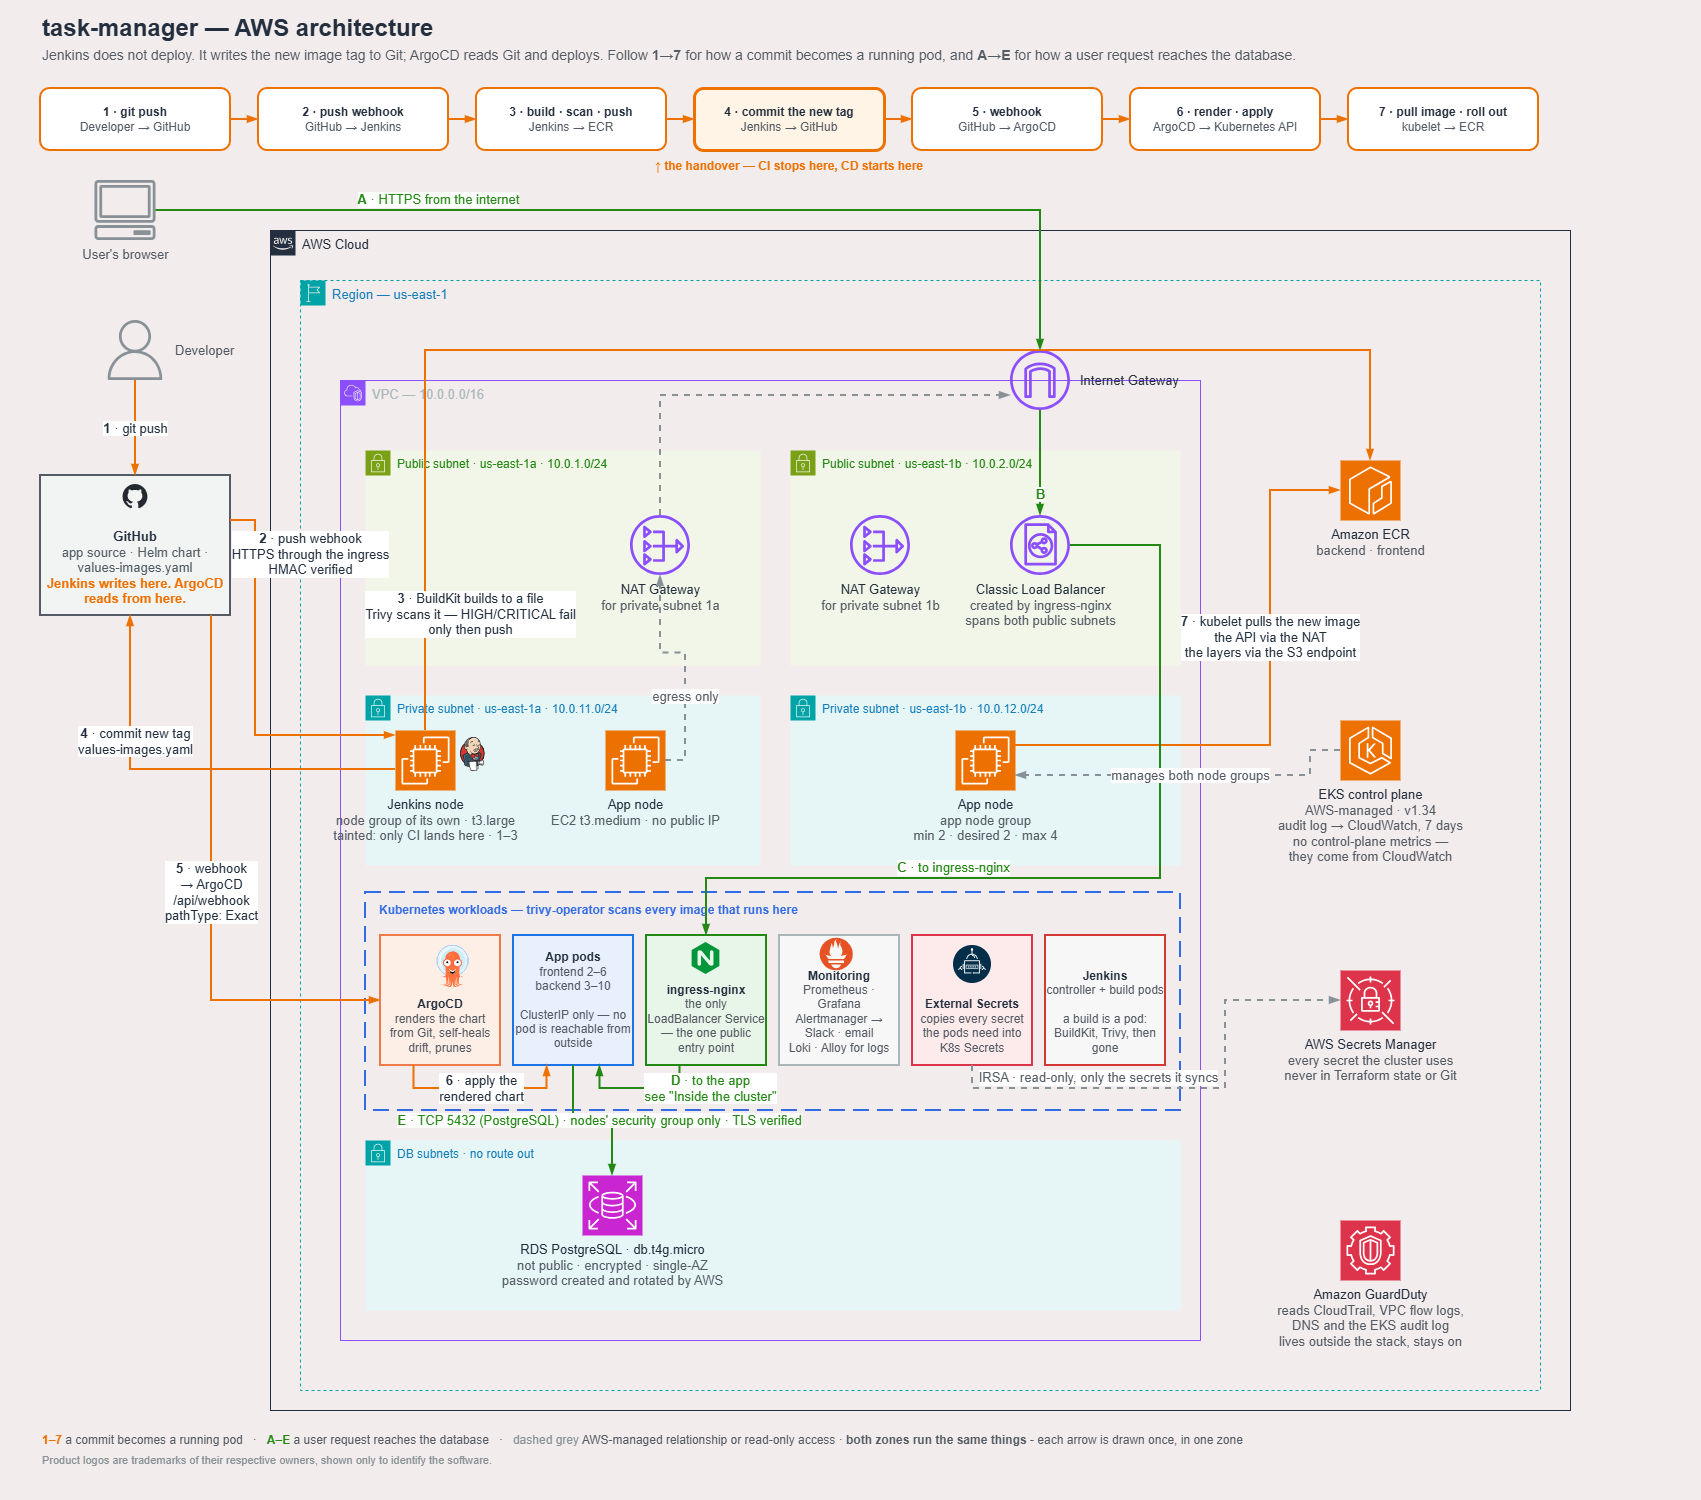
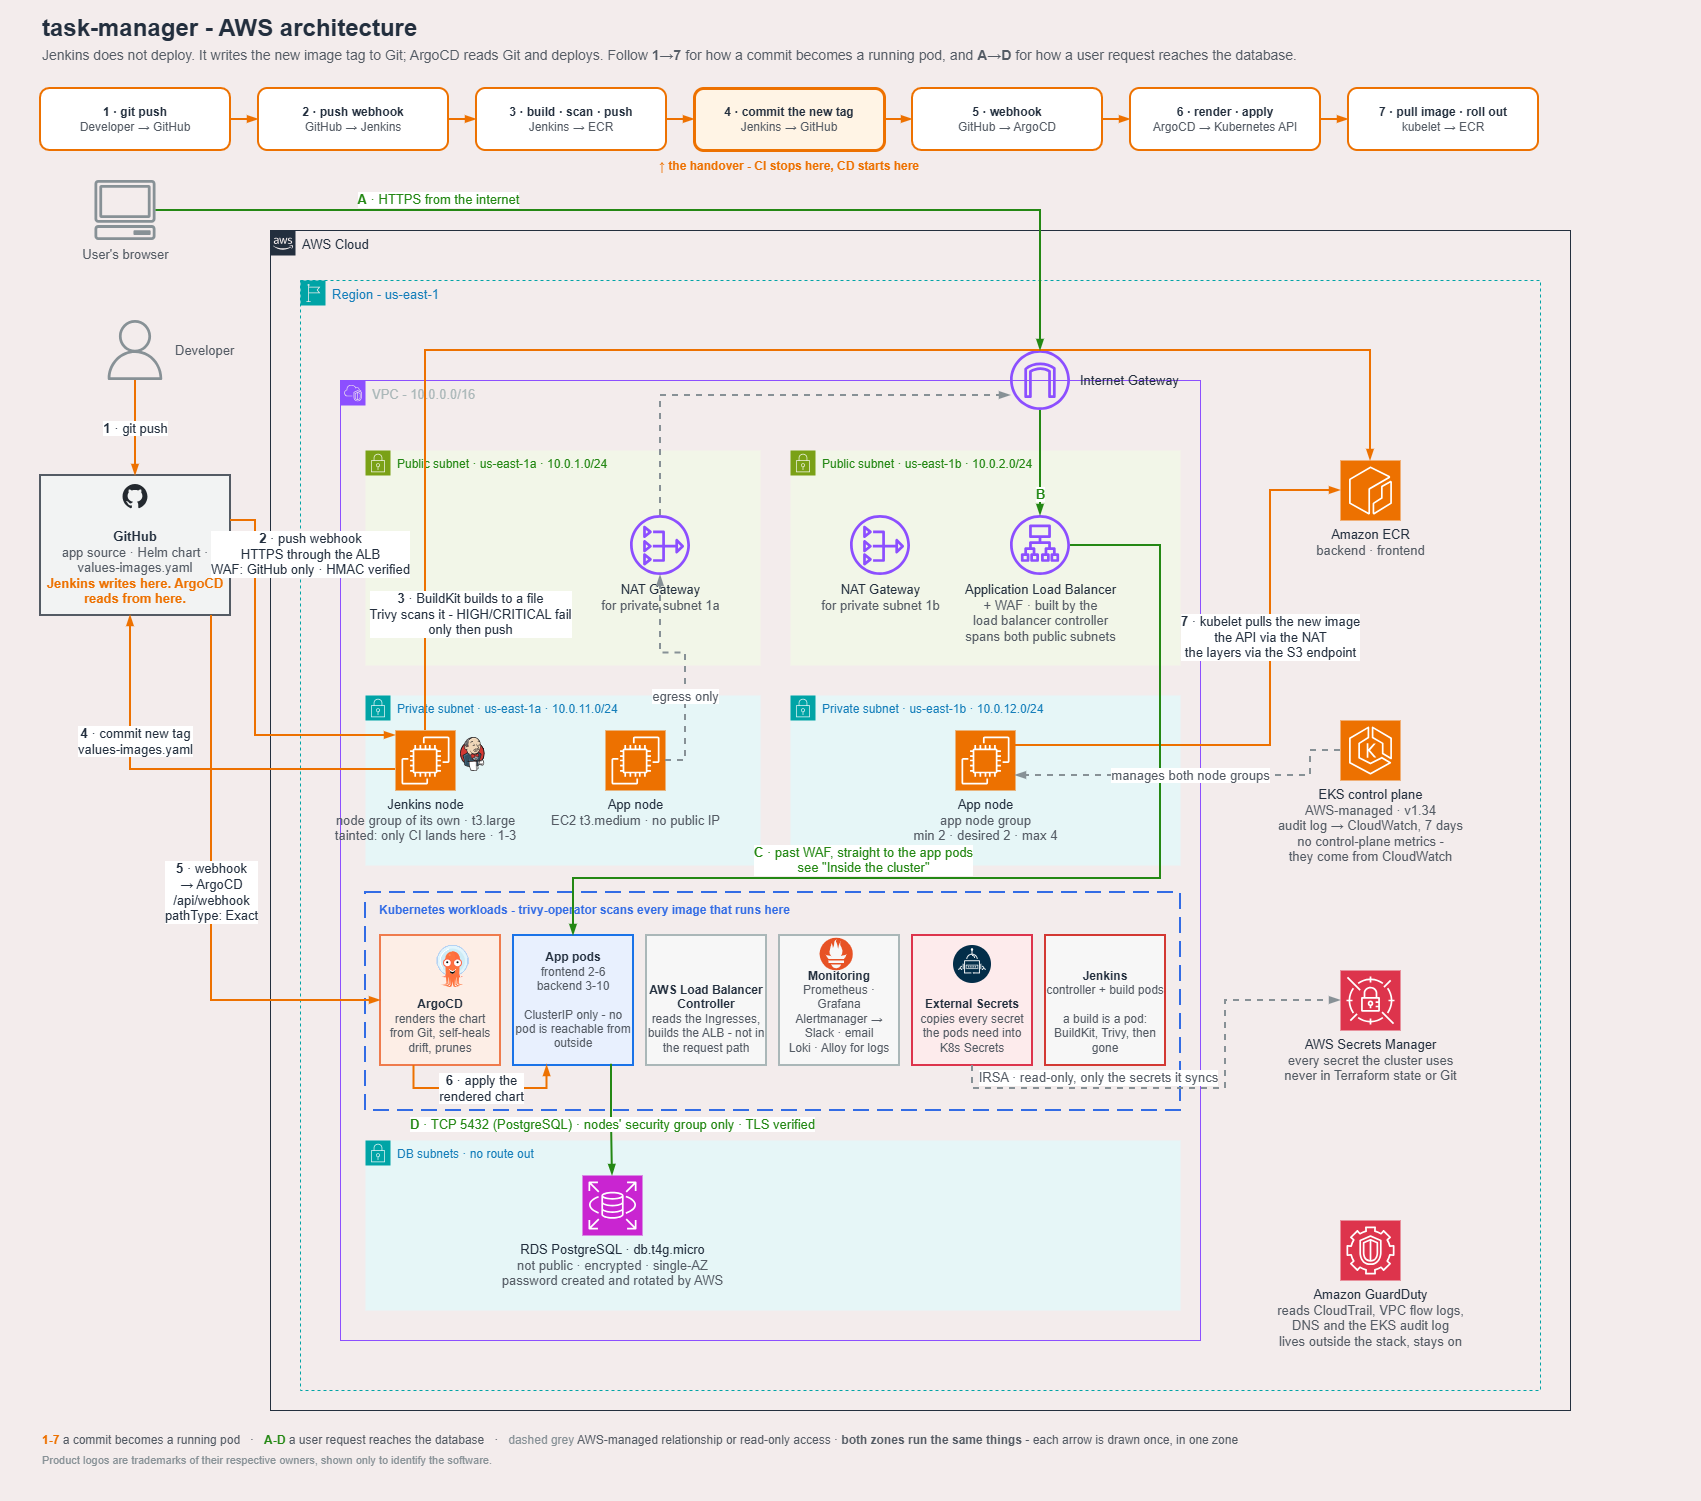
Redraw the diagrams for the ALB and WAF

diff --git a/HLD.md b/HLD.md
@@ -10,7 +10,7 @@ That split is why a compromised build can't reach production, and why `git rever
 
 ## Architecture
 
-![task-manager AWS architecture: a commit becoming a running pod (1-7), and a user request reaching the database (A-E)](docs/architecture.png)
+![task-manager AWS architecture: a commit becoming a running pod (1-7), and a user request reaching the database (A-D)](docs/architecture.png)
 
 The same system by what each piece does, rather than by where a request goes: the two node groups and what runs in each namespace, what watches them, and which AWS service each one reaches.
 
@@ -29,7 +29,7 @@ Two node groups, all of it in private subnets with no public IP:
 
 The nodes need internet access to pull images. That goes out through a NAT gateway in their own availability zone - one per zone, each private subnet with a route table of its own - so a zone going down does not cut the other zone's way out. ECR image layers skip the NAT: they come from S3, through a free S3 gateway endpoint.
 
-![Inside the cluster: browser to ingress to frontend to backend to database, every hop a ClusterIP Service](docs/inside-the-cluster.png)
+![Inside the cluster: browser to the ALB, straight to a frontend pod, then backend and database through ClusterIP Services; the Ingress and the Service drawn as configuration, not hops](docs/inside-the-cluster.png)
 
 ### One way in
 
